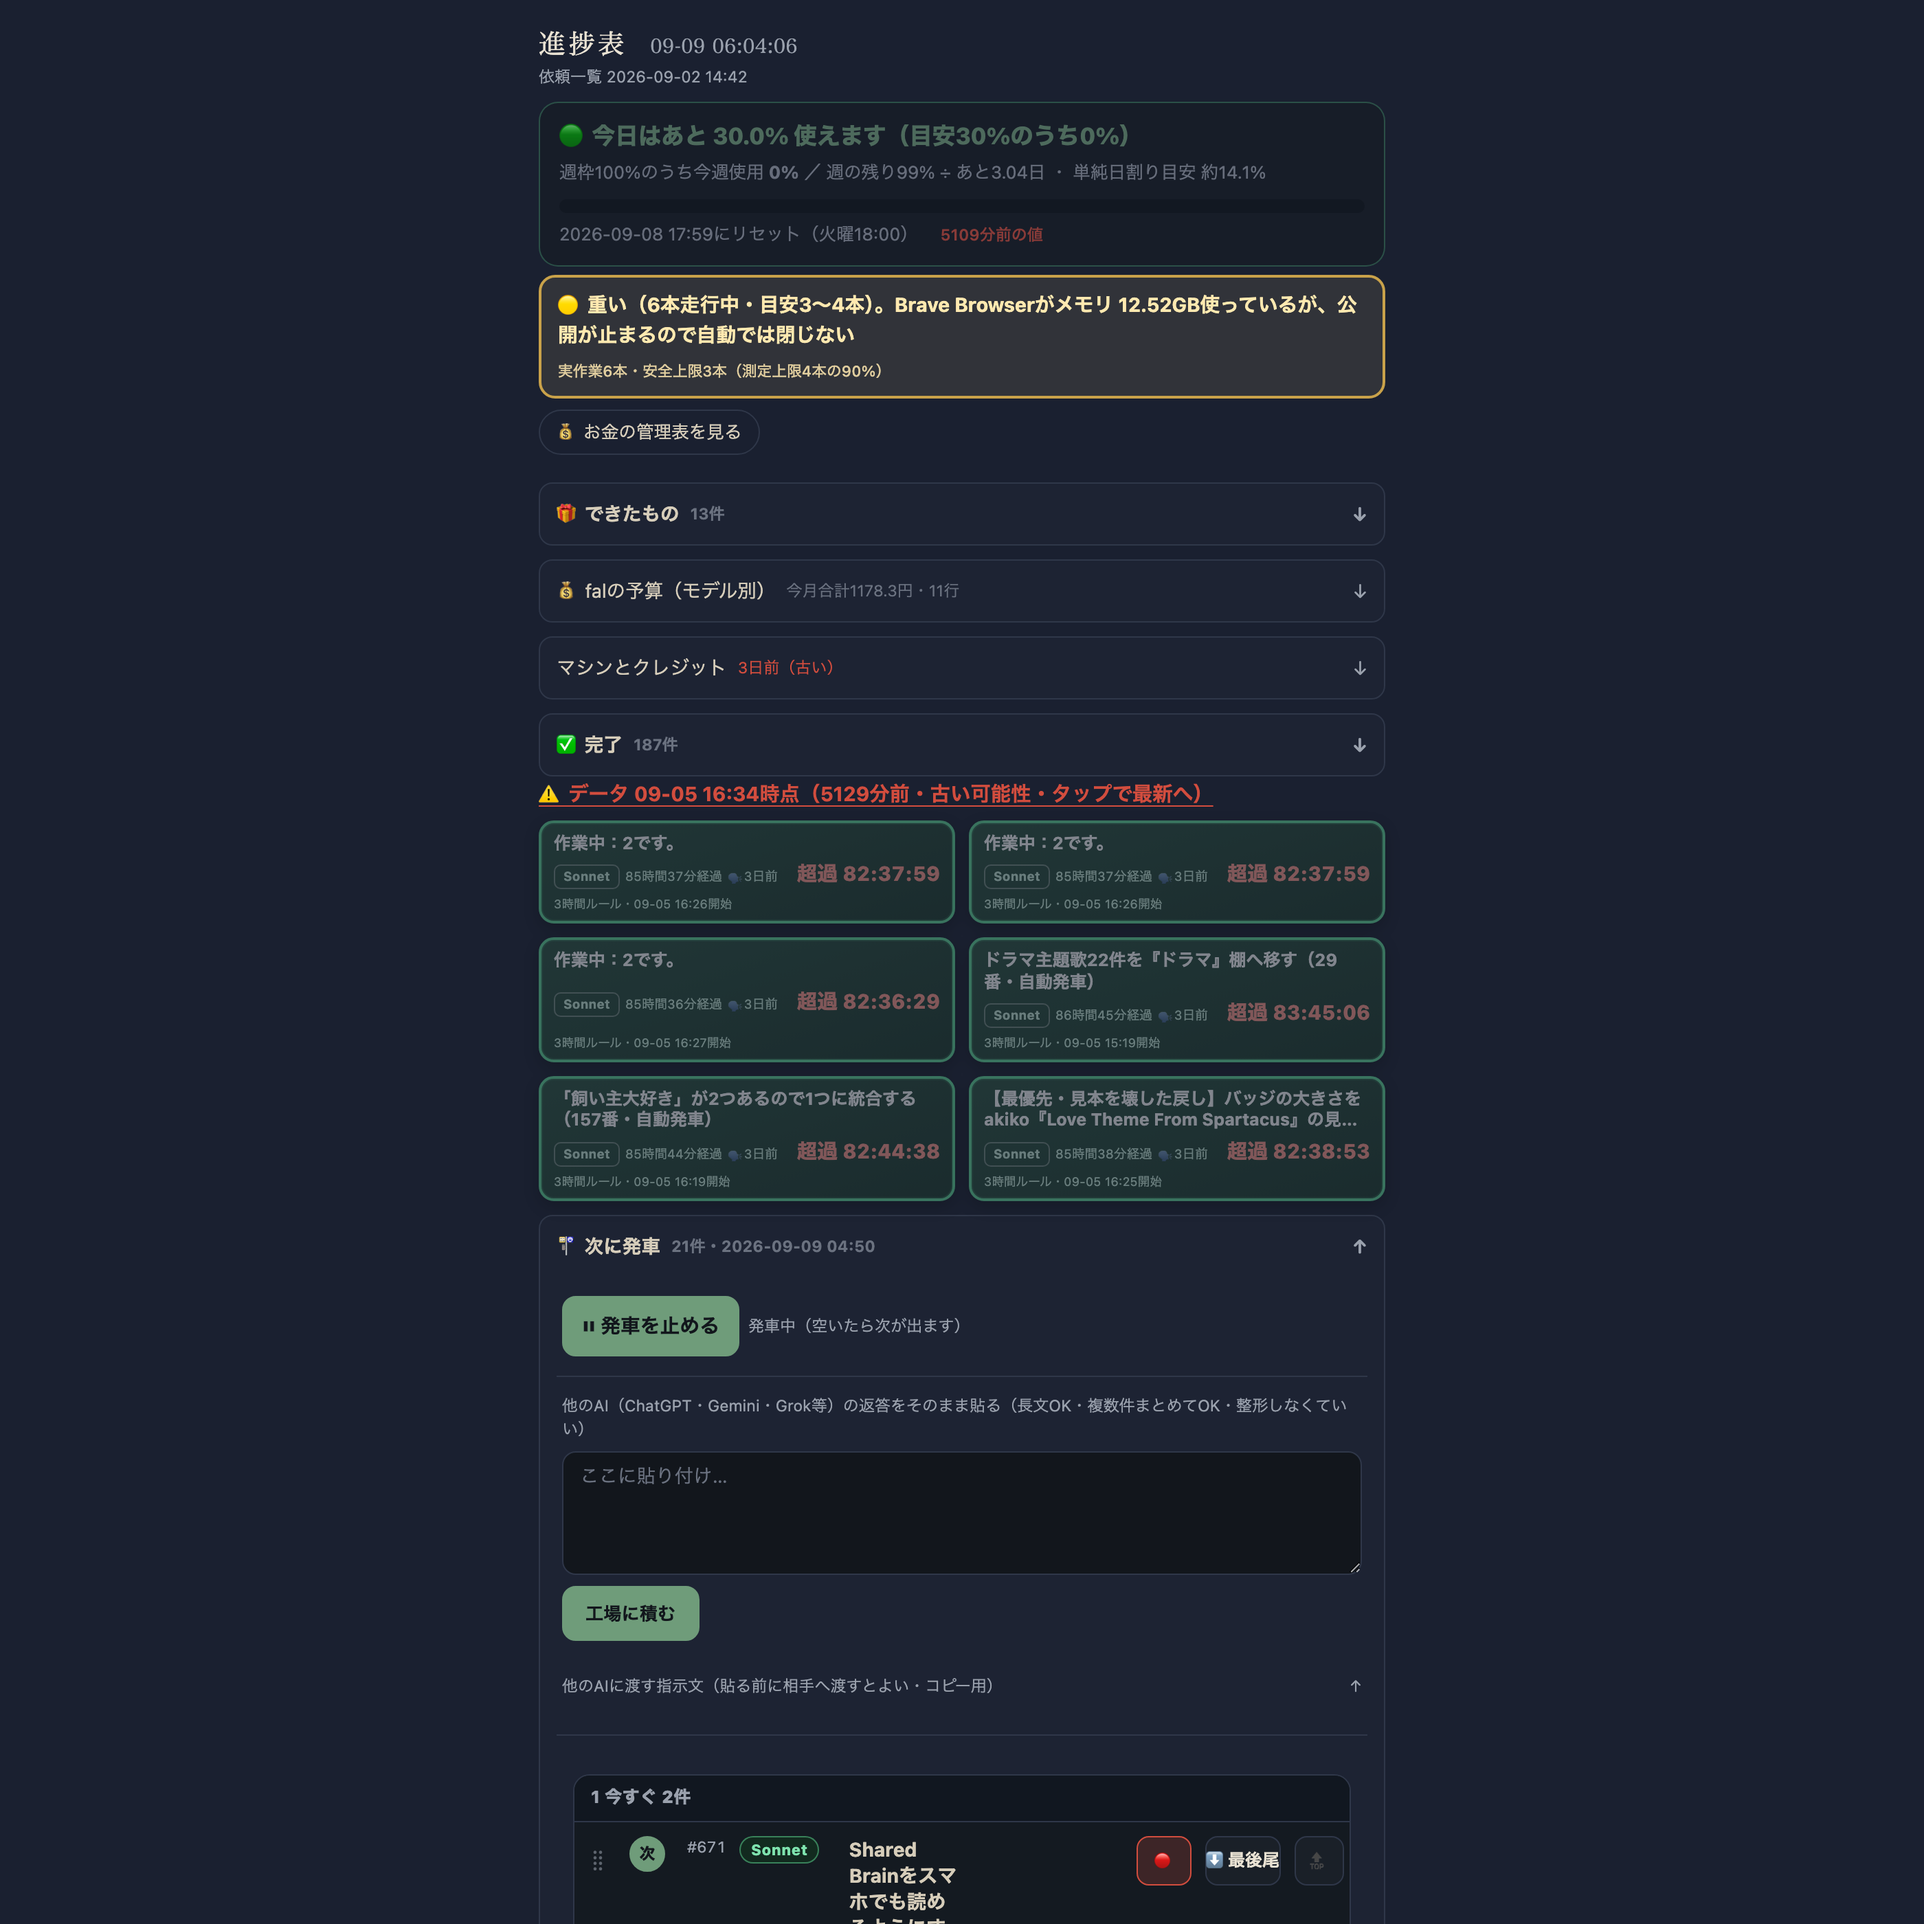
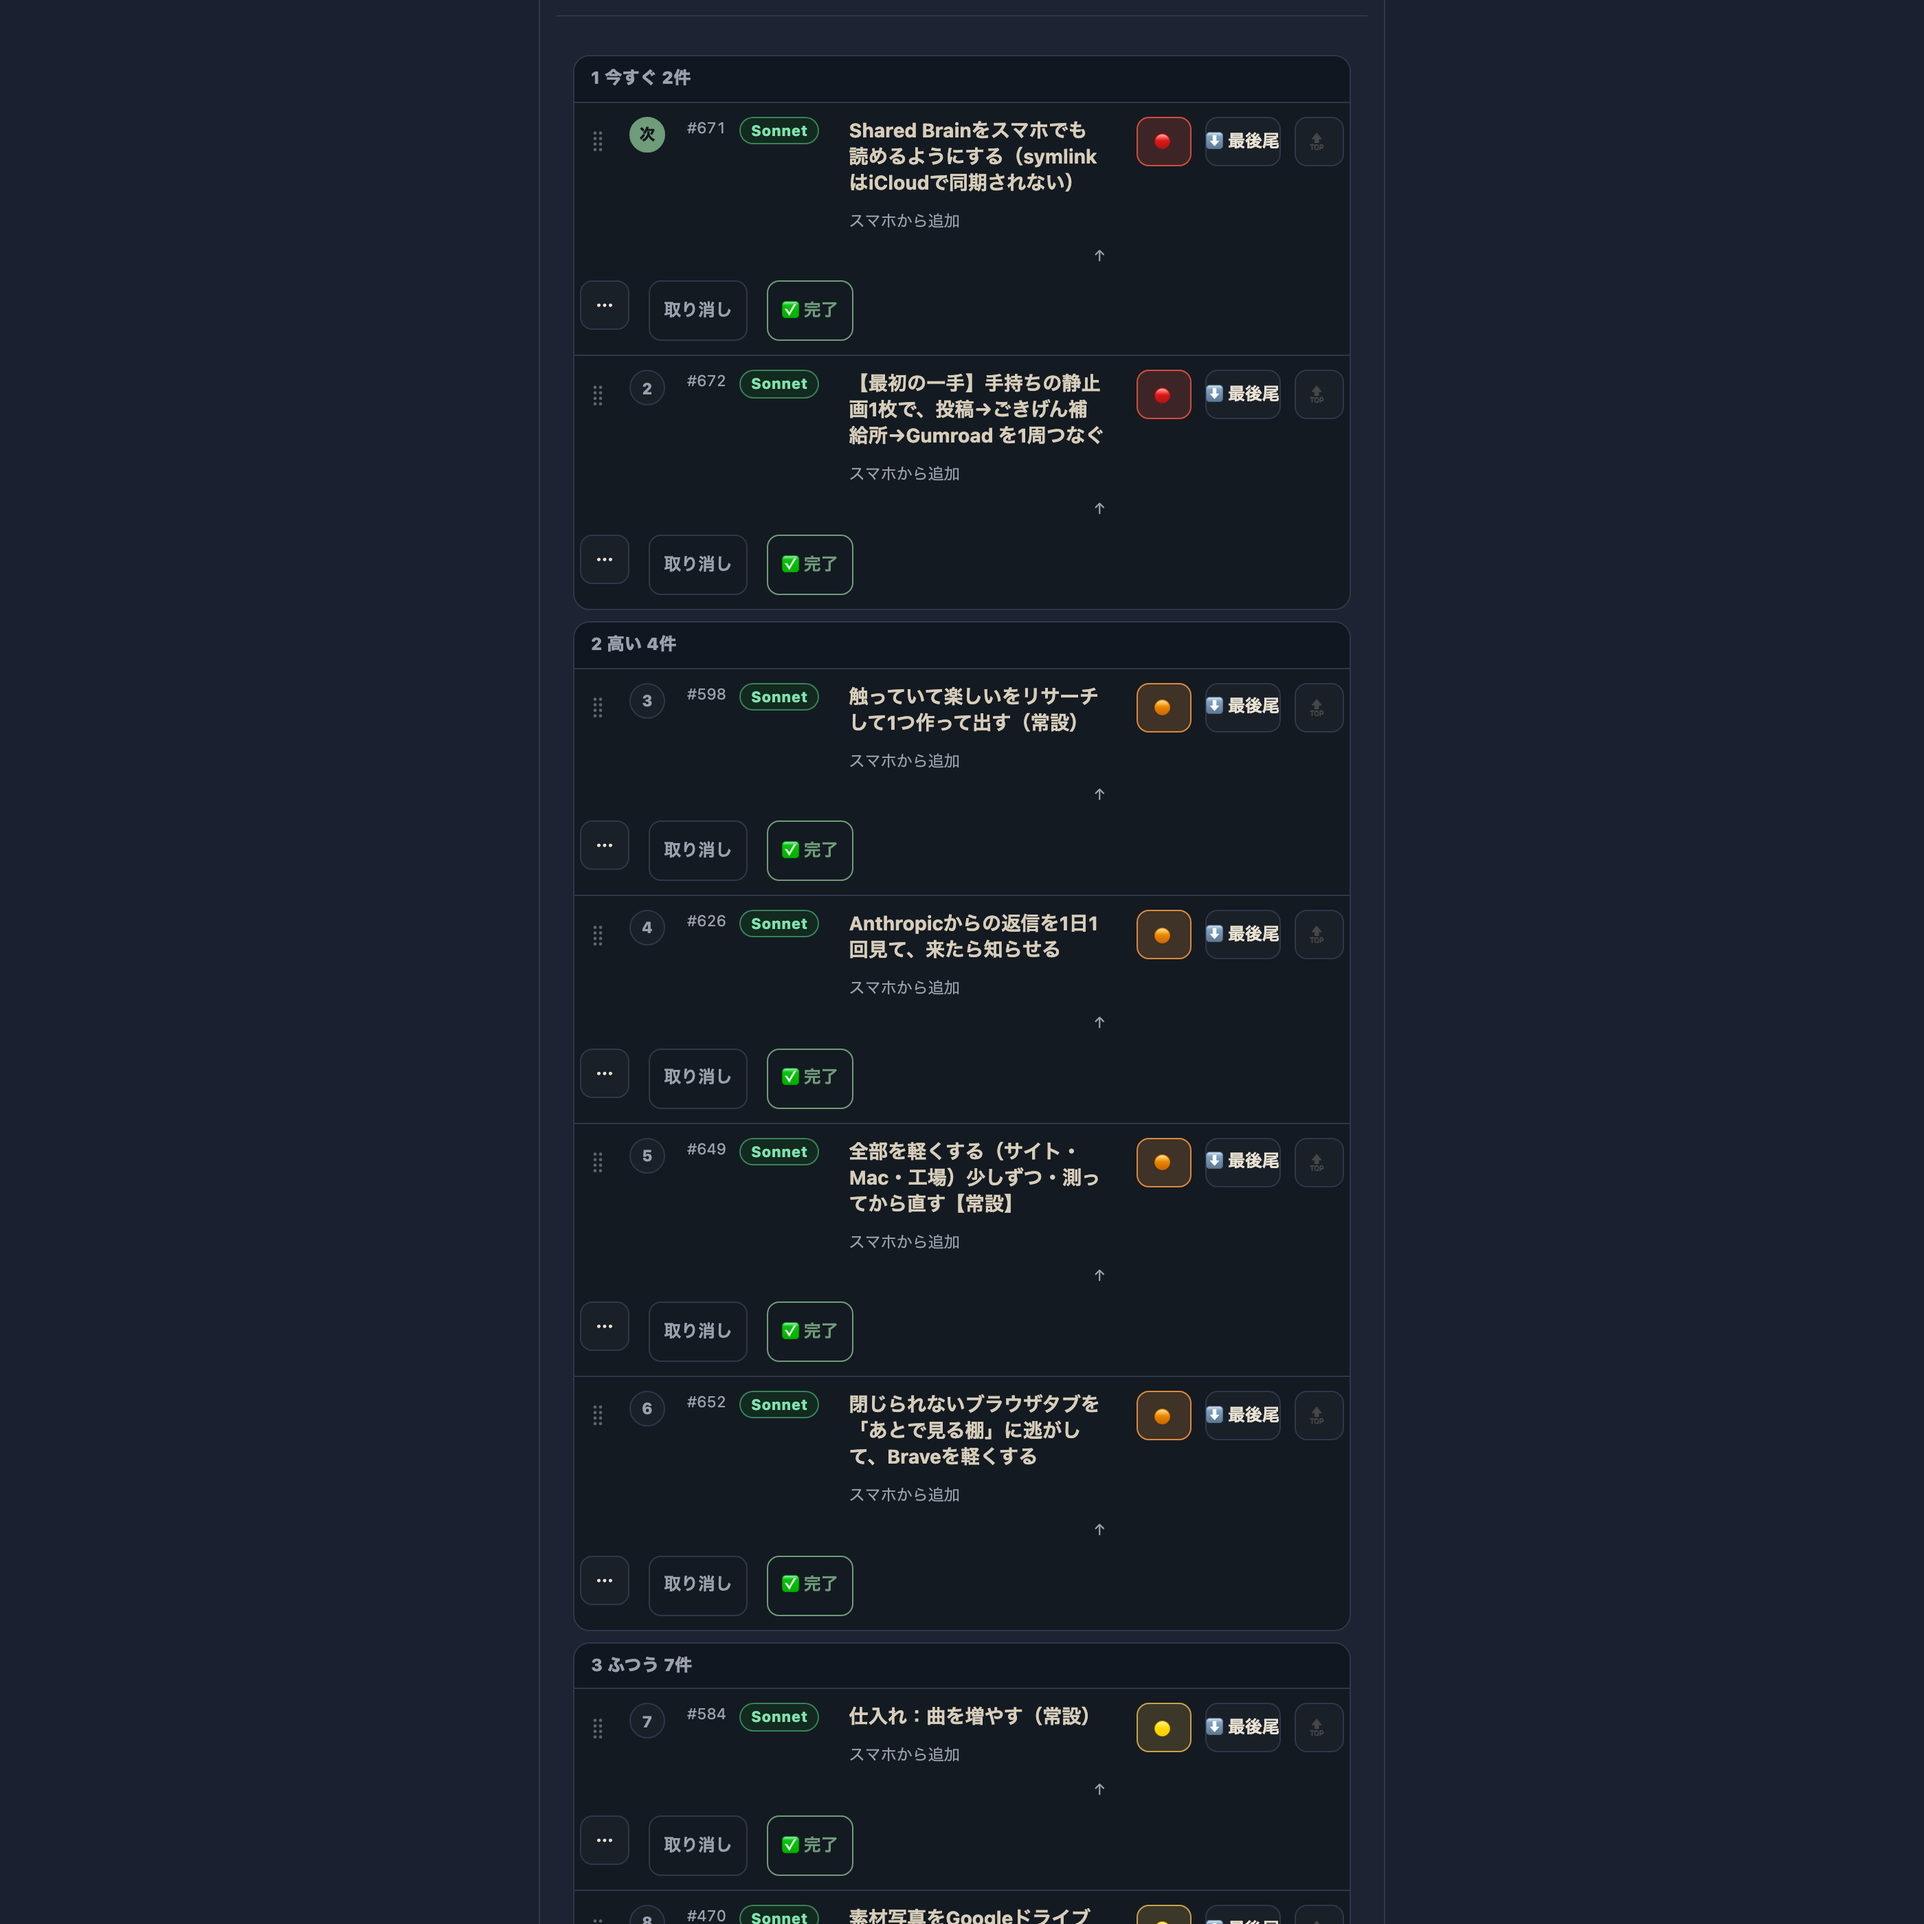
673番: 確認ページ追加＋証拠スクショ更新（進捗表の縦崩れ修正・トグル既定畳み確認）

diff --git a/share/check/673-queue-vertical-collapse-fix.html b/share/check/673-queue-vertical-collapse-fix.html
@@ -1,0 +1,77 @@
+<!DOCTYPE html>
+<html lang="ja">
+<head>
+<meta charset="UTF-8">
+<meta name="viewport" content="width=device-width,initial-scale=1,viewport-fit=cover">
+<meta name="robots" content="noindex,nofollow">
+<title>#673 進捗表「1 今すぐ」の縦崩れ修正・トグル既定畳み確認 確認ページ</title>
+<style>
+  :root{--bg:#f4efe4;--ink:#2a2a2a;--sub:#7a7568;--line:#e2dccd;--aka:#c4483a;--ao:#3a5f7a;--midori:#3a7a52;}
+  *{box-sizing:border-box;}
+  body{margin:0;padding:calc(env(safe-area-inset-top) + 20px) 16px calc(env(safe-area-inset-bottom) + 40px);background:var(--bg);color:var(--ink);
+    font-family:-apple-system,BlinkMacSystemFont,"Hiragino Sans","Yu Gothic",sans-serif;font-size:16px;line-height:1.7;max-width:760px;margin-left:auto;margin-right:auto;}
+  a{color:var(--ao);}
+  h1{font-family:"Hiragino Mincho ProN","Yu Mincho",serif;font-weight:400;font-size:1.3rem;letter-spacing:0.06em;margin:0 0 6px;}
+  .date{color:var(--sub);font-size:0.8rem;margin-bottom:22px;}
+  h2{font-family:"Hiragino Mincho ProN","Yu Mincho",serif;font-weight:400;font-size:1.05rem;letter-spacing:0.06em;margin:34px 0 12px;color:var(--sub);}
+  .fix{border-left:3px solid var(--midori);padding:4px 0 4px 14px;margin:0 0 20px;font-size:1.05rem;}
+  .nums{display:flex;gap:14px;flex-wrap:wrap;margin:0 0 10px;}
+  .num{background:#fff;border:1px solid var(--line);border-radius:10px;padding:14px 18px;min-width:140px;}
+  .num b{display:block;font-size:1.6rem;line-height:1.2;}
+  .num span{color:var(--sub);font-size:0.8rem;}
+  .note{background:#fff;border:1px solid var(--line);border-radius:10px;padding:12px 15px;font-size:0.9rem;margin:0 0 10px;}
+  ul.links{list-style:none;margin:0;padding:0;}
+  ul.links li{background:#fff;border:1px solid var(--line);border-radius:10px;padding:12px 15px;margin:0 0 10px;}
+  ul.links li b{display:block;margin-bottom:4px;}
+  ul.links a{word-break:break-all;font-size:0.92rem;}
+  .shots{display:flex;gap:14px;flex-wrap:wrap;margin:0 0 20px;}
+  .shot{flex:1 1 260px;background:#fff;border:1px solid var(--line);border-radius:12px;padding:12px;}
+  .shot b{display:block;margin-bottom:8px;color:var(--sub);font-size:0.82rem;}
+  .shot img{width:100%;border-radius:8px;border:1px solid var(--line);display:block;}
+  .shot.before b{color:var(--aka);}
+  .shot.after b{color:var(--midori);}
+  .shot.plain b{color:var(--ao);}
+  .shot .meta{display:block;margin-top:6px;font-size:0.78rem;color:var(--sub);}
+  table{width:100%;border-collapse:collapse;background:#fff;border:1px solid var(--line);border-radius:10px;overflow:hidden;font-size:0.86rem;}
+  th,td{padding:8px 10px;border-bottom:1px solid var(--line);text-align:left;vertical-align:top;}
+  th{background:#efe9db;color:var(--sub);font-weight:600;font-size:0.76rem;}
+  tr:last-child td{border-bottom:none;}
+  .yes{color:var(--midori);font-weight:700;}
+  .no{color:var(--aka);}
+  footer{color:var(--sub);font-size:0.78rem;margin-top:40px;line-height:1.6;}
+</style>
+</head>
+<body>
+<div class="date"><a href="../">共有資料の一覧</a> ／ 確認ページ #673 進捗表「1 今すぐ」の縦崩れ修正・トグル既定畳み確認</div>
+<h1>#673 進捗表「1 今すぐ」の縦崩れ修正・トグル既定畳み確認</h1>
+<div class="date">2026-09-09 実装・main合流・本番(GitHub Pages)反映まで実測確認</div>
+
+<div class="fix">
+進捗表(index.html)の発車待ちカードで、題名が1文字ずつ縦に折り返され読めなくなっていたバグを修正。原因はブラウザが&lt;summary&gt;要素を既定でdisplay:flex（横並び）にするため、題名と理由の2つのspanが横で幅を奪い合っていたこと。flex-direction:columnを指定して縦積みに固定した。トグル（&lt;details&gt;）は元々既定で畳んだ状態（openなし）になっており、この点は変更前から正しく動いていたことも実測で確認した。
+</div>
+
+<h2>② 数字</h2>
+<div class="nums">
+  <div class="num"><b>121px→267px</b><span>題名(.qt)の実測幅（枠291px中）</span></div>
+  <div class="num"><b>227px→90px</b><span>1行の高さ（ローカル再現テスト）</span></div>
+  <div class="num"><b>0/61</b><span>開いたままのトグル数（既定畳み・修正前後とも0のまま）</span></div>
+</div>
+
+<h2>③ 実データでのスクリーンショット</h2>
+<div class="shots">
+  <div class="shot plain"><b>スマホ375px・「1 今すぐ」#671が2行で読める</b><img src="img/673-mobile-fixed.png" alt="スマホ375px・「1 今すぐ」#671が2行で読める"></div>
+  <div class="shot plain"><b>横長デスクトップ1400px・同じ箇所</b><img src="img/673-desktop-fixed.png" alt="横長デスクトップ1400px・同じ箇所"></div>
+</div>
+
+<h2>④ 押せるリンク</h2>
+<ul class="links">
+  <li><b>本番の進捗表</b><a href="https://tamago2022.github.io/tamago-shinchoku/" target="_blank" rel="noopener">https://tamago2022.github.io/tamago-shinchoku/</a></li>
+</ul>
+
+
+
+<footer>
+修正はコミット8ebf46fで本番(GitHub Pages)へ反映済み。
+</footer>
+</body>
+</html>
